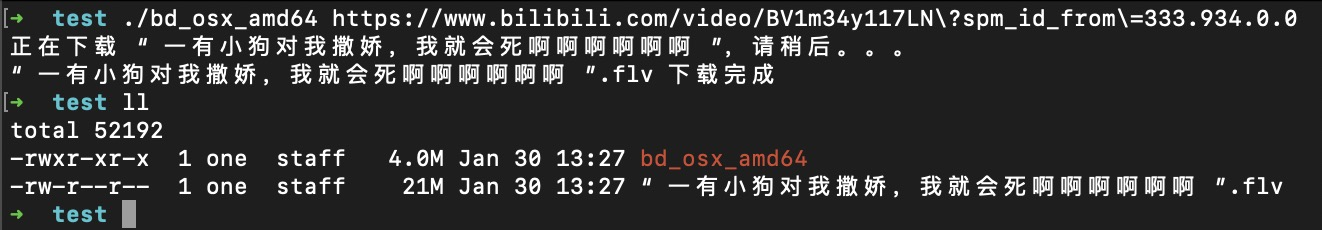
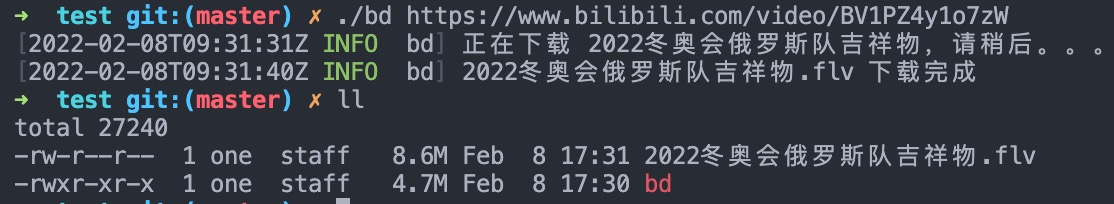
improve code

diff --git a/src/main.rs b/src/main.rs
@@ -1,37 +1,46 @@
-use std::{process::exit, env};
-use std::fs;
-use std::io::Write;
+use std::{process::exit, env, fs, io::Write};
 use reqwest::header::{REFERER, USER_AGENT};
+use env_logger::Env;
+
+#[macro_use]
+extern crate log;
 
 fn main() {
+    logger_init();
+
     let args: Vec<String> = env::args().collect();
     if args.len() < 2 {
+        error!("argument is error");
         exit(-1);
     }
-    let bv_url = &args[1];
-    let mut c_url = String::from("https://api.bilibili.com/x/web-interface/view?bvid=");
-    let mut g_url = String::from("https://api.bilibili.com/x/player/playurl");
-    let bvid: &str;
-    match get_bvid(bv_url) {
-        Some(id) => bvid = id,
-        None => {
-                eprintln!("get bvid error");
-                exit(-1);
-            }
-    }
 
-    download(&mut c_url, &mut g_url, bvid);
+    if let Some(bvid) = get_bvid(&args[1]) {
+        download(bvid);
+    } else {
+        error!("url is invalid");
+    }
+}
+
+fn logger_init() {
+    env_logger::Builder::from_env(Env::default().default_filter_or("info")).init();
 }
 
 fn get_bvid(url: &str) -> Option<&str> {
-    match url.find("BV") {
-        Some(bv_index) => Some(&url[bv_index..bv_index+12]),
-        None => None
+    if let Some(bv_index) = url.find("BV") {
+        if url.len() < bv_index+12 {
+            return None
+        } else {
+            return Some(&url[bv_index..bv_index+12])
+        }
     }
+    None
 }
 
 #[tokio::main]
-async fn download(c_url: &mut String, g_url: &mut String, bvid: &str) -> Result<(), Box<dyn std::error::Error>> {
+async fn download(bvid: &str) -> Result<(), Box<dyn std::error::Error>> {
+    let mut c_url = String::from("https://api.bilibili.com/x/web-interface/view?bvid=");
+    let mut g_url = String::from("https://api.bilibili.com/x/player/playurl");
+
     c_url.push_str(bvid);
     let r1 = reqwest::get(c_url.as_str())
         .await?
@@ -55,7 +64,7 @@ async fn download(c_url: &mut String, g_url: &mut String, bvid: &str) -> Result<
 
     let v = &r2["data"]["durl"][0]["url"];
     let real_url = v.as_str().unwrap();
-    println!("正在下载 {}，请稍后。。。", title.as_str().unwrap());
+    info!("正在下载 {}，请稍后。。。", title.as_str().unwrap());
     let client = reqwest::Client::builder()
         .build()?;
     let r3 = client.get(real_url)
@@ -71,6 +80,6 @@ async fn download(c_url: &mut String, g_url: &mut String, bvid: &str) -> Result<
     let mut file = fs::File::create(&fname)?;
     file.write_all(&r3)?;
 
-    println!("{} 下载完成", fname);
+    info!("{} 下载完成", fname);
     Ok(())
 }
